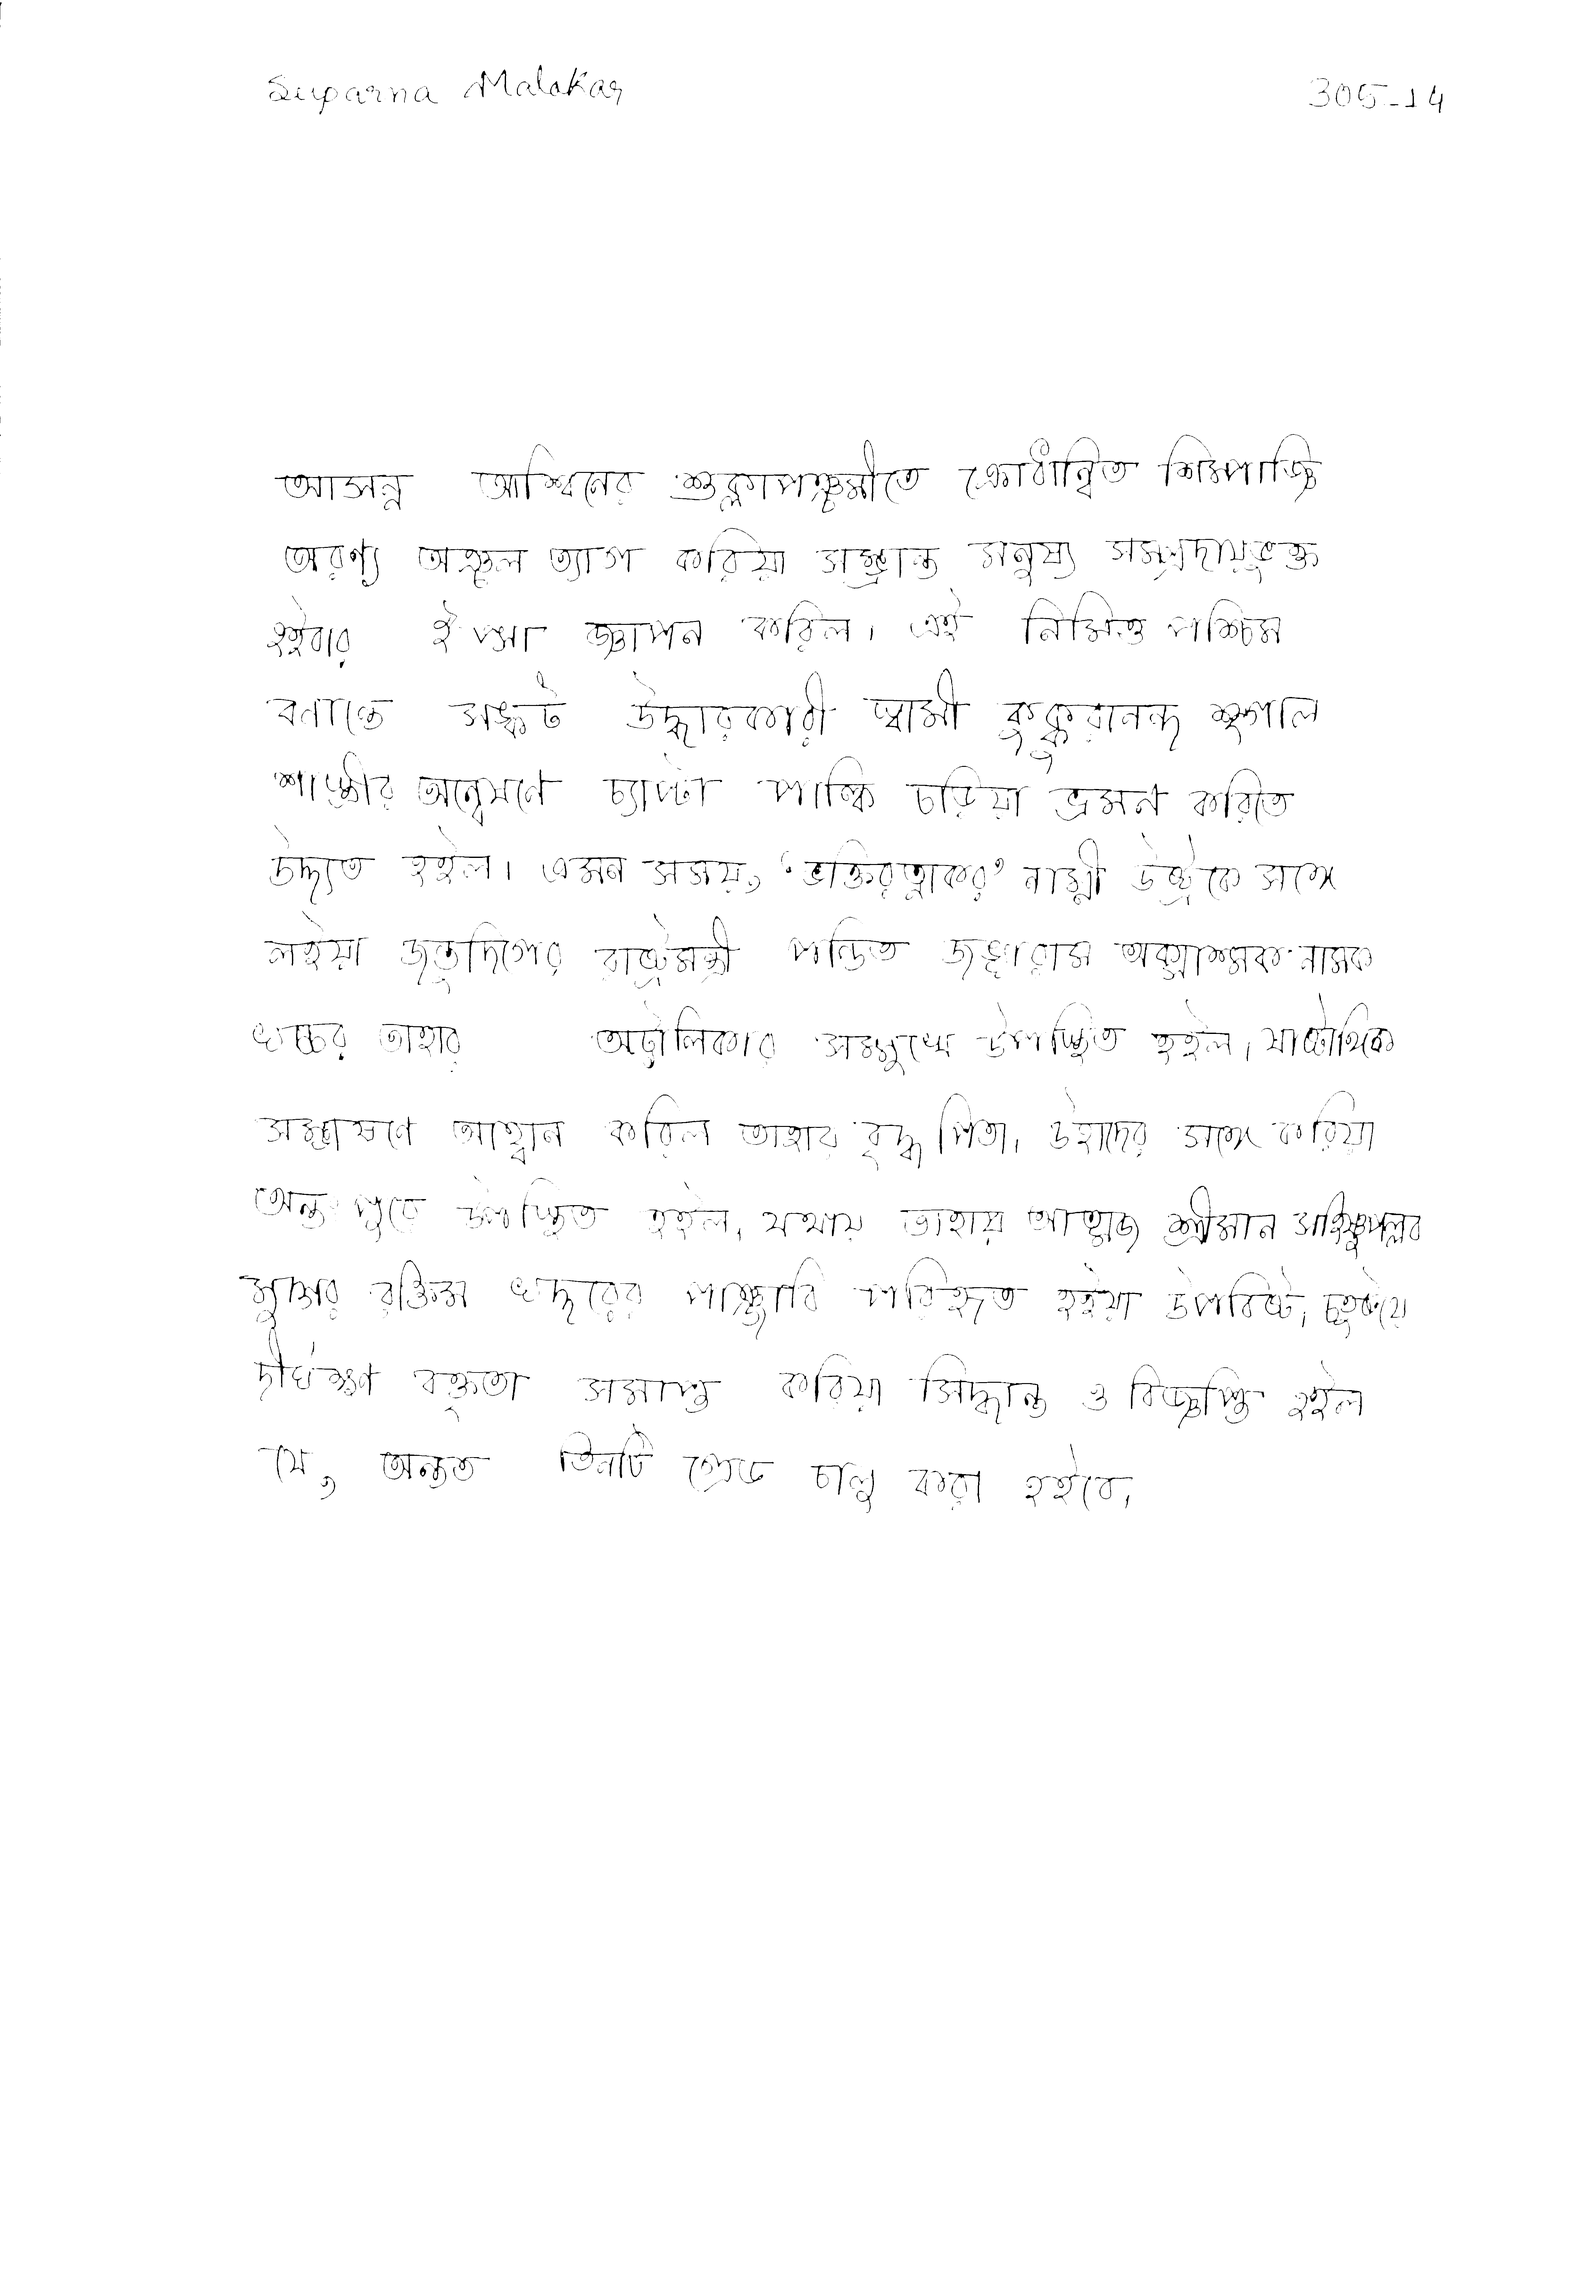
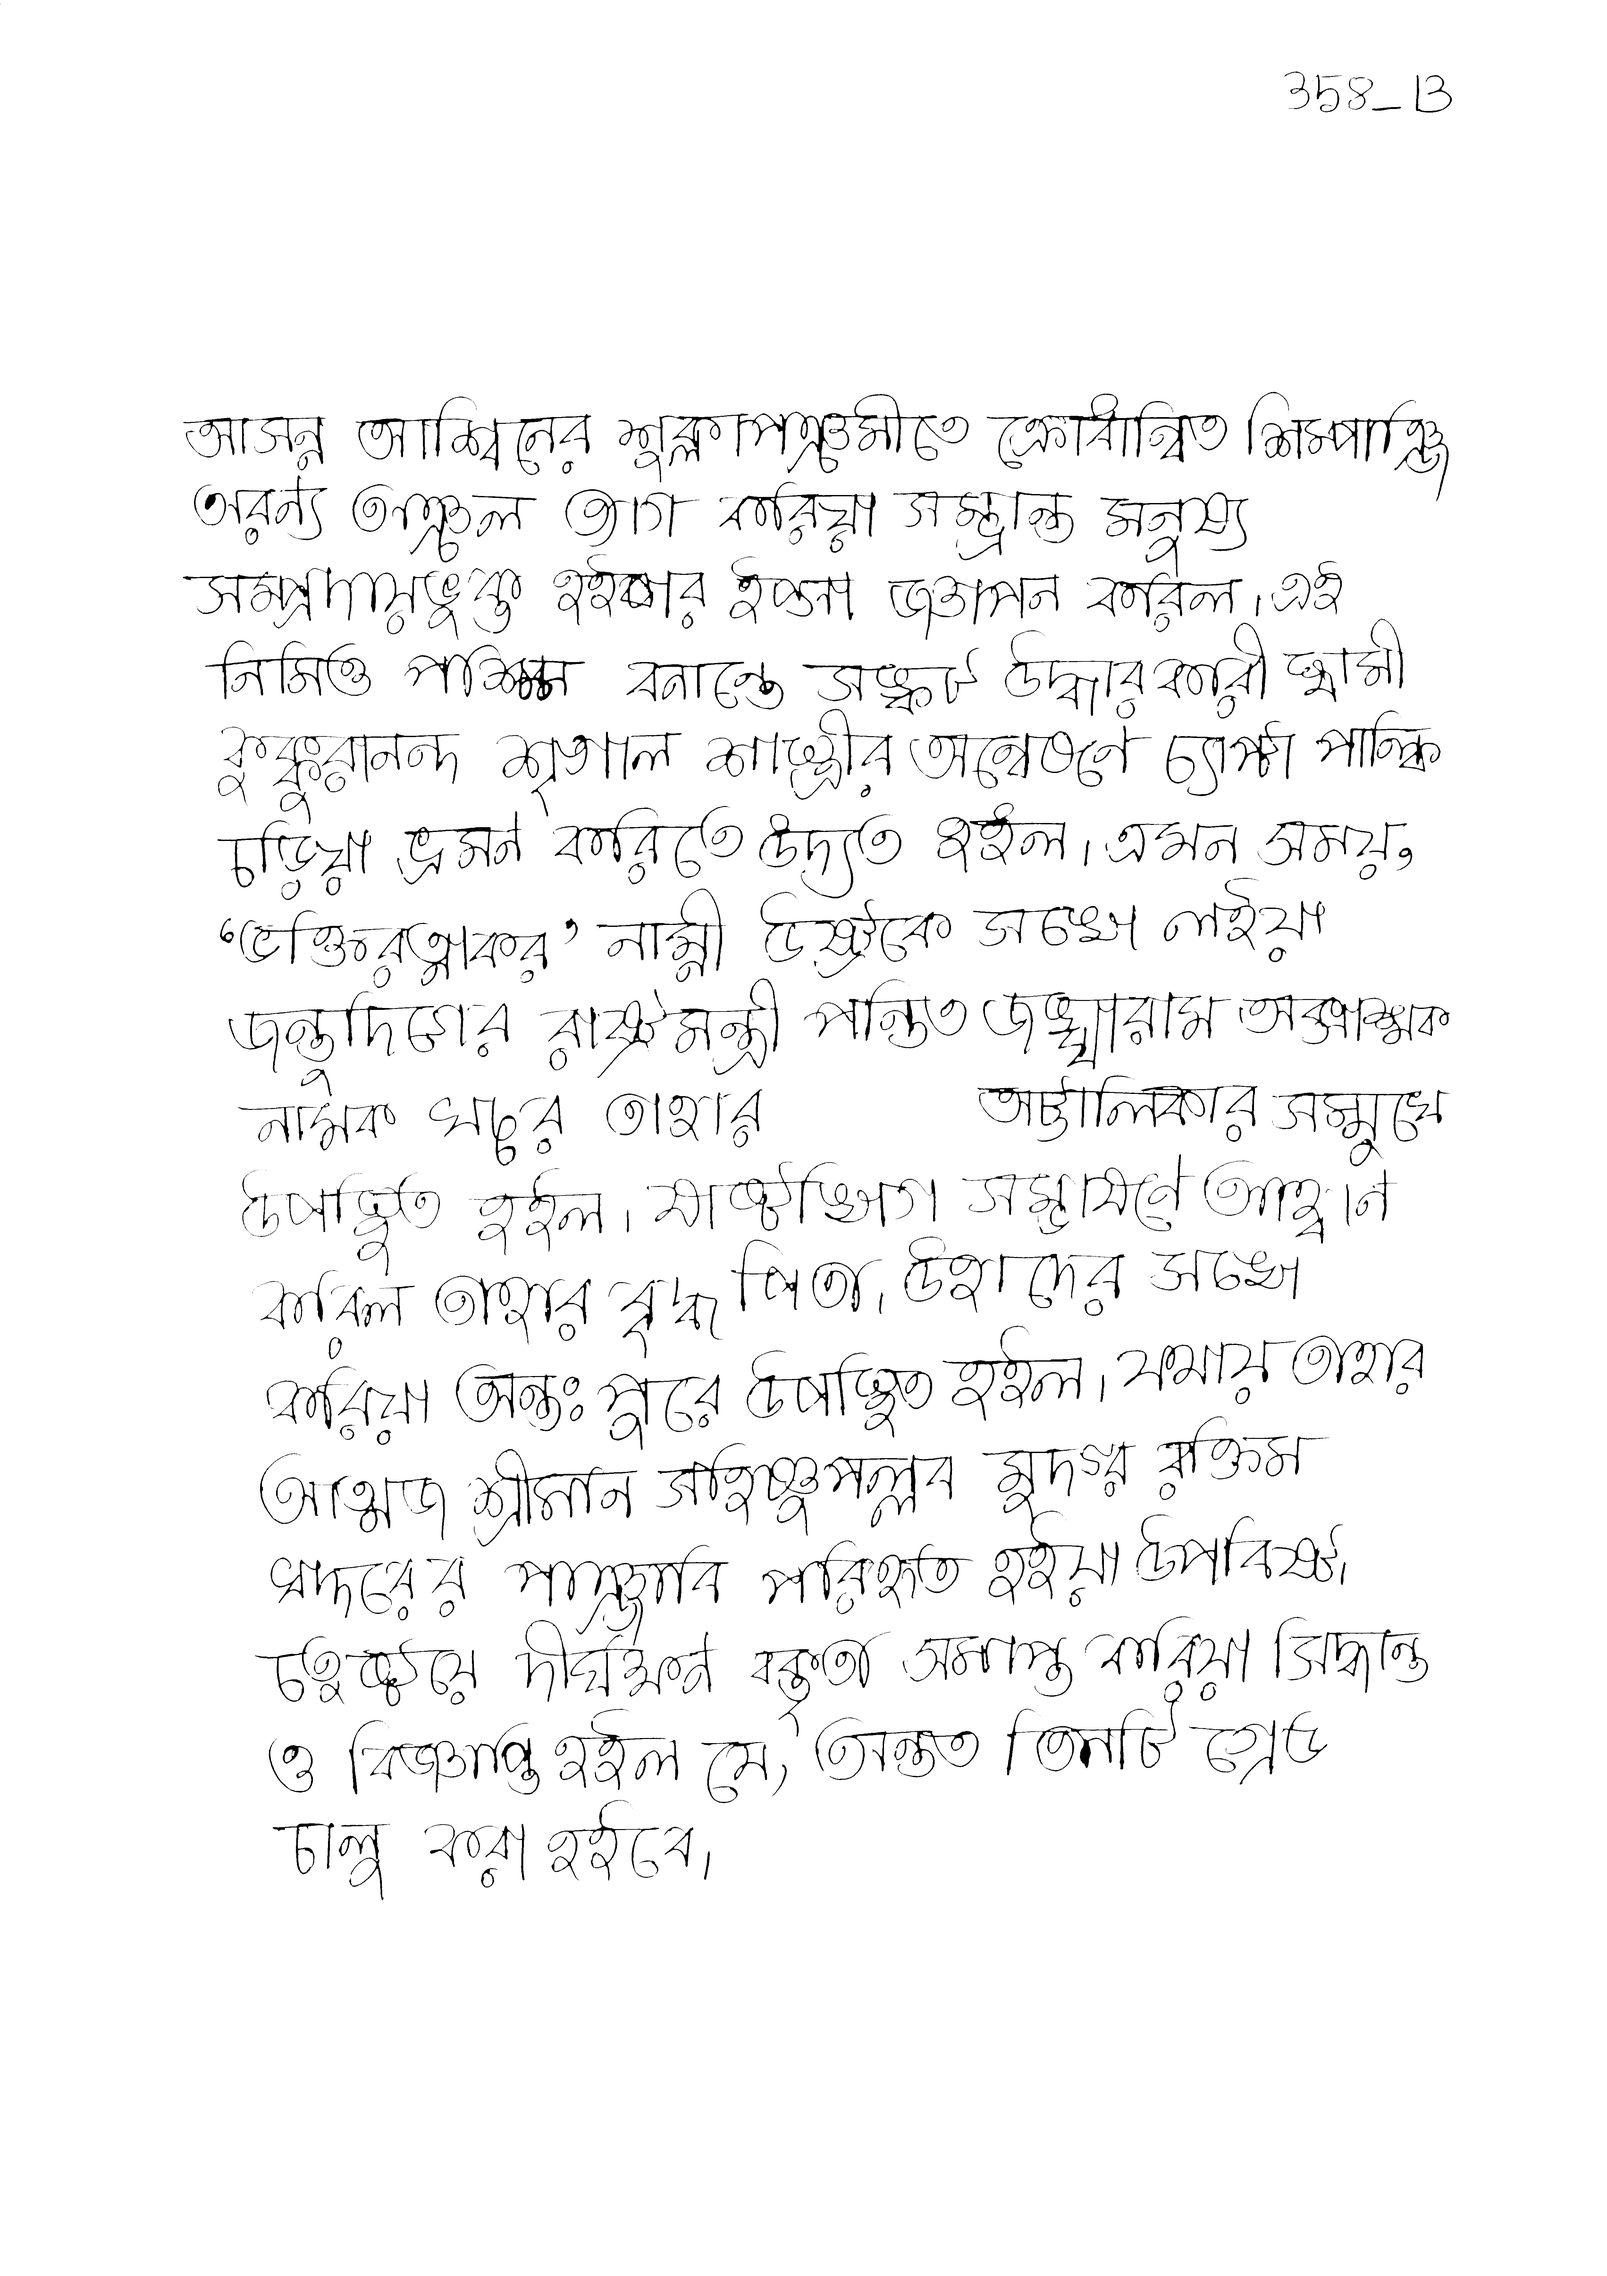
woohoo, time reduced from ~1 hr to ~2 min

diff --git a/check_feature_template.py b/check_feature_template.py
@@ -1,0 +1,42 @@
+import cv2 as cv
+import numpy as np
+
+def highlight_feature(mask, img):
+    ''' 
+    This function will run the mask over the image.
+    If it finds instances such that there is enough overlap, in the final image it will return
+    that overlapped section.
+    '''
+
+    mask_height = len(mask)
+    mask_width = len(mask[0])
+    img_height = len(img)
+    img_width = len(img[0])
+
+    result_img = np.array(img)
+    result_img[:,:] = 255
+
+    for i in range(0, img_height-mask_height, mask_height):
+        for j in range(0, img_width-mask_width, mask_width):
+            total_cells_here = mask_height * mask_width
+            total_good_cells = 0
+            for k in range(i, i+mask_height):
+                for l in range(j, j+mask_width):
+                    if (img[k][l] | mask[k-i][l-j]) == 0:
+                        total_good_cells += 1
+            if (total_good_cells / total_cells_here) >= 0.9:
+                for k in range(i, i+mask_height):
+                    for l in range(j, j+mask_width):
+                        if (img[k][l] | mask[k-i][l-j]) == 0:
+                            result_img[k][l] = 0
+    
+    return result_img
+
+
+cropped_img = cv.imread('cropped.png',0)
+ret, bin_image = cv.threshold(cropped_img, 155, 255, cv.THRESH_BINARY)
+mask = np.zeros((5,15), np.uint8)
+
+result = highlight_feature(mask, bin_image)
+cv.imwrite("result.png", result)
+

diff --git a/check_straight_lines.py b/check_straight_lines.py
@@ -12,6 +12,9 @@ def display_image(curimg, imgname):
 cropped_img = cv.imread('cropped.png',0)
 ret, bin_image = cv.threshold(cropped_img, 155, 255, cv.THRESH_BINARY)
 
+
+
+
 working_image = cv.bitwise_not(bin_image)
 # display_image(cropped_img, 'cropped_img')
 # display_image(bin_image, 'bin image')
@@ -40,6 +43,8 @@ cv.imwrite("black_mask.png", mask)
 
 working_image2 = np.array(working_image)
 
+'''
+puro 1 ghonta time laglo run korte sala
 for i in range(80,len(working_image)-5,5):
     for j in range(0,len(working_image)-15,15):
         mask[i:i+5, j:j+15] = 255
@@ -53,4 +58,21 @@ for i in range(80,len(working_image)-5,5):
         mask[i:i+5, j:j+15] = 0
 
 cv.imwrite("straight_lines_img.png", working_image2)
-        
+'''
+
+
+'''
+TRYING A MANUAL APPROACH
+
+1 x row length er matrix diye try kori
+after all that is found we'll count number of connected components
+and compare the number of connected components for finding a metric
+'''
+
+# LINE COUNT = 50
+
+
+
+
+
+

diff --git a/cropping_image.py b/cropping_image.py
@@ -10,7 +10,7 @@ def display_image(curimg, imgname):
     cv.destroyAllWindows()
 
 
-raw_img = cv.imread(r'C:\Users\DARPAN\Documents\College\6th Semester\BSc Project (DSE6)\Data\305_0014.png')
+raw_img = cv.imread(r'C:\Users\DARPAN\Documents\College\6th Semester\BSc Project (DSE6)\Data\358_0013.png')
 
 img_copy = np.array(raw_img)
 img_copy2 = np.array(raw_img)
